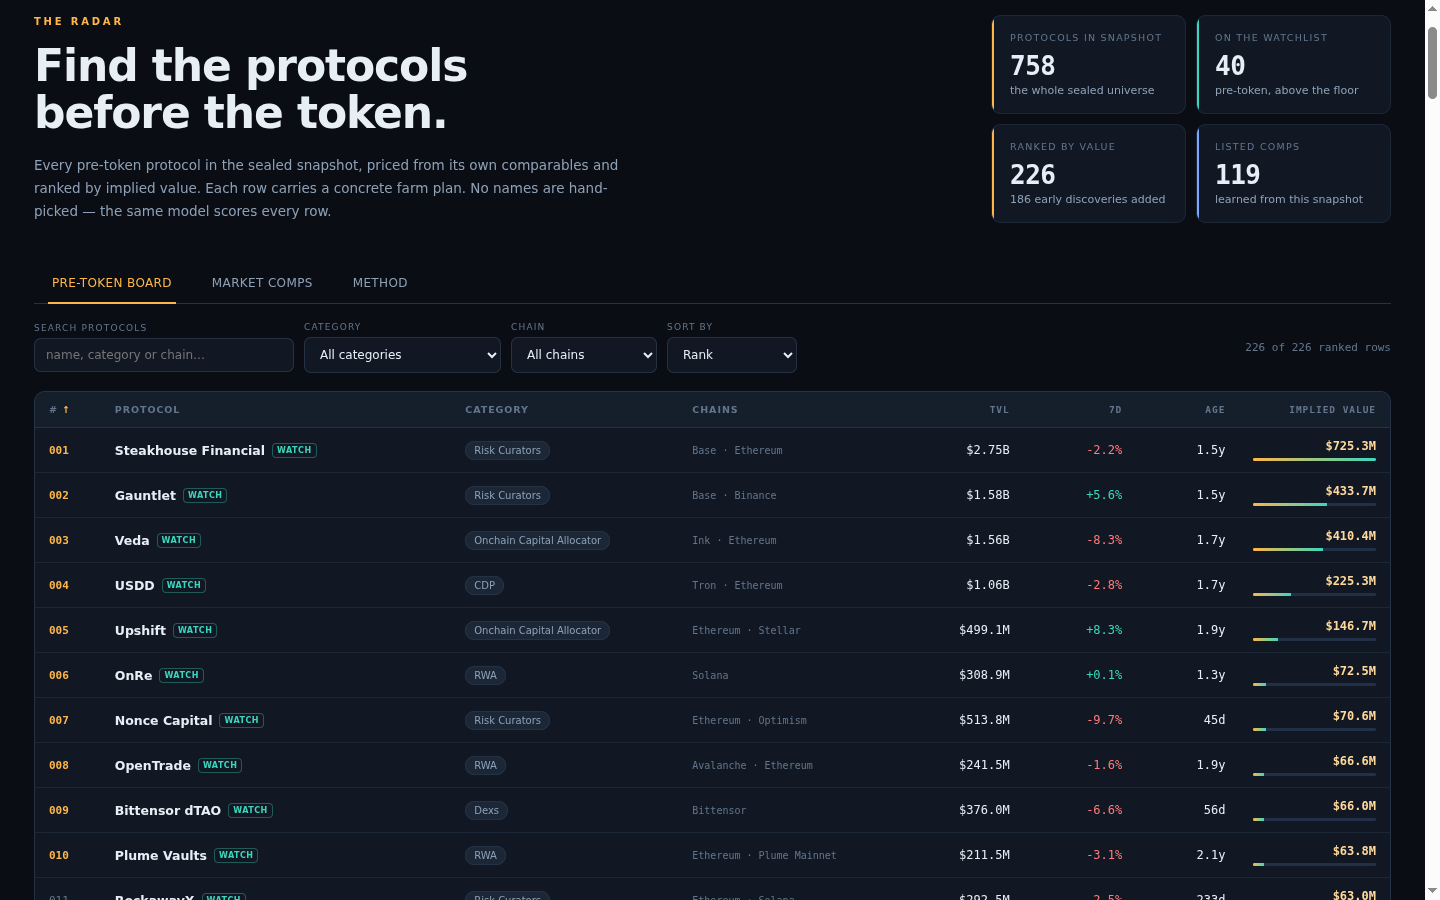
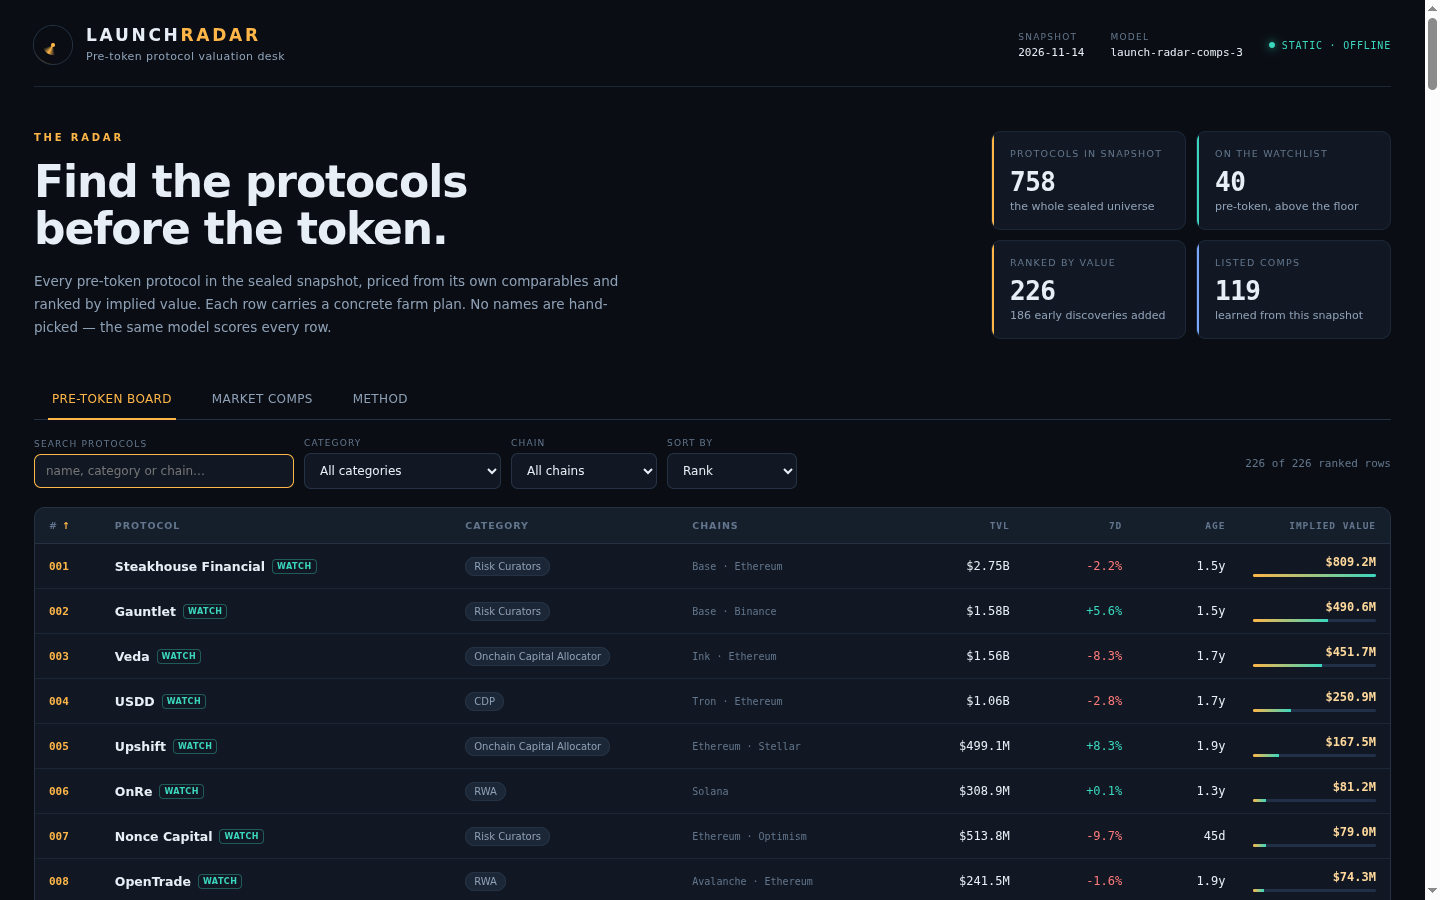
v2: peer-relative and momentum-age signals, transparent rationale in dashboard

diff --git a/dashboard/app.js b/dashboard/app.js
@@ -31,7 +31,21 @@
     var cm = 1 + M.chain_weight * Math.min(Math.max((row.chains || []).length - 1, 0), 4);
     var tilt = Math.min(4, Math.max(-2, Math.log2(M.discovery_ref_usd / Math.max(row.tvl_usd, 1))));
     var dm = 1 + M.discovery_weight * tilt;
-    return Math.max(1, Math.round(row.tvl_usd * row.comp_multiple * gm * mm * cm * dm));
+    var pm = row.peer_mult == null ? 1 : row.peer_mult;
+    var sm = row.synergy_mult == null ? 1 : row.synergy_mult;
+    var cf = row.confidence == null ? 1 : row.confidence;
+    return Math.max(1, Math.round(row.tvl_usd * row.comp_multiple * gm * mm * cm * dm * pm * sm * cf));
+  }
+
+  // One-line reading of the dominant driver, derived from the same factors.
+  function rationale(r) {
+    var out = [];
+    if (r.change_7d !== null && Math.abs(r.change_7d) >= 5) out.push((r.change_7d > 0 ? 'strong ' : 'weak ') + '7-day momentum');
+    if ((r.peer_mult || 1) >= 1.06) out.push('large for its peer group');
+    if ((r.maturity_mult || 1) >= 1.12) out.push('a long tokenless track record');
+    if ((r.discovery_mult || 1) >= 1.1) out.push('early-scale discovery');
+    if ((r.comp_n || 0) > 0 && (r.comp_multiple || 0) > 0) out.push('category comps of ' + r.comp_multiple.toFixed(2) + '×');
+    return out.length ? out.slice(0, 3).join(', ') : 'at or near the snapshot median on each factor';
   }
 
   var S = { tab: 'board', q: '', cat: 'all', chain: 'all', sort: 'rank', dir: 1, sel: null };
@@ -182,7 +196,8 @@
         esc(r.category || 'uncategorised') + (r.watchlist ? ' &nbsp;·&nbsp; on the watchlist' : ' &nbsp;·&nbsp; early discovery') + '</div>' +
       '<div class="d-val"><div class="d-val-k">IMPLIED VALUE IF ITS RECORD STAYS AS IT IS</div>' +
         '<div class="d-val-v">' + money(r.implied_value_usd) + '</div>' +
-        '<div class="d-val-n">Page recomputation: ' + money(check) + ' from the same snapshot figures</div></div>' +
+        '<div class="d-val-n">Page recomputation: ' + money(check) + ' from the same snapshot figures</div>' +
+        '<div class="d-val-n" style="margin-top:8px;color:var(--amber2)">Signal: ' + esc(rationale(r)) + '</div></div>' +
       '<div class="d-grid">' +
         cell2('TVL', money(r.tvl_usd)) + cell2('7-DAY TVL', pct(r.change_7d)) +
         cell2('TIME WITHOUT TOKEN', age(r.age_days)) + cell2('COMP MULTIPLE', (r.comp_multiple || 0).toFixed(2) + '×') +
@@ -194,6 +209,9 @@
       factor('Tokenless maturity', age(r.age_days) + ' → ' + (r.maturity_mult || 1).toFixed(3) + '×') +
       factor('Chain breadth', (r.chains || []).length + ' chains → ' + (r.chain_mult || 1).toFixed(3) + '×') +
       factor('Discovery tilt', money(r.tvl_usd) + ' TVL → ' + (r.discovery_mult || 1).toFixed(3) + '×') +
+      factor('Peer-relative size', money(r.tvl_usd) + ' against category peers → ' + (r.peer_mult || 1).toFixed(3) + '×') +
+      factor('Growth × tokenless age', pct(r.change_7d) + ' × ' + age(r.age_days) + ' → ' + (r.synergy_mult || 1).toFixed(3) + '×') +
+      factor('Data confidence', (r.confidence || 1) === 1 ? '7-day change reported → 1.000×' : '7-day change unreported → ' + (r.confidence || 1).toFixed(3) + '×') +
       '<div class="d-h">Farm plan — concrete steps, cost and time</div>' +
       '<div class="d-steps">' + (r.farm_steps || []).map(function (s, i) {
         // board.json stores each step as one "… Cost: … . Time: … ." string; split it for display.
@@ -233,8 +251,10 @@
         'growth_mult = 1 + growth/100 × ' + M.growth_weight + '<br>' +
         'maturity = 1 + age_weight × (1 − 2·exp(−days_without_token / ' + M.age_scale_days + '))<br>' +
         'chain = 1 + ' + M.chain_weight + ' × (chains − 1) &nbsp; discovery = 1 + ' + M.discovery_weight + ' × log2(' + money(M.discovery_ref_usd) + ' / tvl)<br>' +
-        'implied = round(base × growth_mult × maturity × chain × discovery)</div>' +
-      '<p>Longer tokenless track records raise credibility with a saturating effect; small protocols get a bounded discovery tilt because the radar exists to find them early. Already-listed protocols are never ranked — they appear in Market comps with the market’s own price.</p>' +
+        'peer = 1 + ' + M.peer_weight + ' × log2(tvl / category-peer-median tvl)<br>' +
+        'synergy = 1 + ' + M.momentum_age_weight + ' × growth/100 × min(2, days/365) &nbsp; confidence = ' + M.missing_growth_penalty + '× if 7d is unreported<br>' +
+        'implied = round(base × growth × maturity × chain × discovery × peer × synergy × confidence)</div>' +
+      '<p>Longer tokenless track records raise credibility with a saturating effect; small protocols get a bounded discovery tilt because the radar exists to find them early. Size relative to pre-token peers and the interaction of momentum with tokenless age are further snapshot-derived signals. An unreported 7-day change takes a small confidence haircut. Already-listed protocols are never ranked — they appear in Market comps with the market’s own price.</p>' +
       '<h3>3 · Coverage and farm plans</h3>' +
       '<p>The board carries all ' + D.watchlist_size + ' watchlist protocols plus ' + D.early_size + ' early pre-token names below the floor, ranked ' +
         D.board_size + ' deep. Every row’s plan is built from its category, chains, TVL and age: a fresh wallet, one tailored on-chain action, a weekly qualifying action, a holding window, a safety check on the official rewards page, and a farm log. Each step states its cash cost and how long it takes.</p>' +

diff --git a/lib/model.ts b/lib/model.ts
@@ -46,6 +46,9 @@ export interface ModelConstants {
   chain_weight: number;       // bonus per extra chain, capped
   discovery_weight: number;   // strength of the small-protocol discovery tilt
   discovery_ref_usd: number;  // TVL at which the discovery tilt is neutral
+  peer_weight: number;        // strength of the within-category relative-size signal
+  momentum_age_weight: number;// growth x tokenless-age interaction
+  missing_growth_penalty: number; // confidence haircut when 7d change is absent
 }
 
 export const MODEL: ModelConstants = {
@@ -59,9 +62,12 @@ export const MODEL: ModelConstants = {
   chain_weight: 0.05,
   discovery_weight: 0.11,
   discovery_ref_usd: 50_000_000,
+  peer_weight: 0.06,
+  momentum_age_weight: 0.12,
+  missing_growth_penalty: 0.96,
 };
 
-export const MODEL_VERSION = 'launch-radar-comps-2';
+export const MODEL_VERSION = 'launch-radar-comps-3';
 export const EARLY_ROWS = 240;   // pre-token protocols below the watchlist floor the early radar adds
 export const LIVE_ROWS = 24;     // listed protocols in the separate "market" view
 
@@ -116,6 +122,7 @@ export function isRankable(p: SnapshotProtocol): boolean {
 export interface Comps {
   global_ratio: number;
   categories: Record<string, { ratio: number; n: number }>;
+  peers: Record<string, number>;   // median TVL of pre-token protocols in each category
   listed_count: number;
 }
 
@@ -149,7 +156,18 @@ export function buildComps(snapshot: Snapshot, model: ModelConstants = MODEL): C
       n,
     };
   }
-  return { global_ratio: global, categories, listed_count: listed.length };
+  // Peer size within a category: the median TVL of pre-token protocols in the same category. This is
+  // another figure from the snapshot, so "large for its peer group" is evidence, not a name override.
+  const peerGroups = new Map<string, number[]>();
+  for (const p of snapshot.protocols) {
+    if (!isPreToken(p) || p.category === 'CEX' || p.tvl_usd <= 0) continue;
+    const key = p.category ?? '(uncategorised)';
+    if (!peerGroups.has(key)) peerGroups.set(key, []);
+    peerGroups.get(key)!.push(p.tvl_usd);
+  }
+  const peers: Record<string, number> = {};
+  for (const [key, values] of peerGroups) peers[key] = median(values);
+  return { global_ratio: global, categories, peers, listed_count: listed.length };
 }
 
 /** The components of one protocol's implied value, exposed so the dashboard can show the working. */
@@ -164,6 +182,9 @@ export interface Valuation {
   maturity_mult: number;
   chain_mult: number;
   discovery_mult: number;
+  peer_mult: number;
+  synergy_mult: number;
+  confidence: number;
   age_days: number | null;
 }
 
@@ -194,7 +215,20 @@ export function valueProtocol(
   const tilt = clamp(Math.log2(model.discovery_ref_usd / Math.max(p.tvl_usd, 1)), -2, 4);
   const discoveryMult = 1 + model.discovery_weight * tilt;
 
-  const implied = Math.max(1, Math.round(base * growthMult * maturityMult * chainMult * discoveryMult));
+  // Size relative to pre-token peers in the same category.
+  const peerTvl = comps.peers[key];
+  const peerMult = peerTvl !== undefined
+    ? 1 + model.peer_weight * clamp(Math.log2(Math.max(p.tvl_usd, 1) / peerTvl), -2, 2)
+    : 1;
+  // Momentum matters more on a long tokenless record: the two snapshot signals reinforce each other.
+  const synergyMult = 1 + model.momentum_age_weight * (growthPct / 100) * Math.min(2, ageFor / 365);
+  // An unreported 7-day change is weaker evidence; a small haircut keeps it from outranking a
+  // comparable protocol whose momentum is actually known.
+  const confidence = p.change_7d === null ? model.missing_growth_penalty : 1;
+
+  const implied = Math.max(1, Math.round(
+    base * growthMult * maturityMult * chainMult * discoveryMult * peerMult * synergyMult * confidence,
+  ));
   return {
     implied_usd: implied,
     comp_multiple: comp_mult,
@@ -210,6 +244,9 @@ export function valueProtocol(
     maturity_mult: maturityMult,
     chain_mult: chainMult,
     discovery_mult: discoveryMult,
+    peer_mult: peerMult,
+    synergy_mult: synergyMult,
+    confidence,
     age_days: age,
   };
 }
@@ -240,6 +277,9 @@ export interface BoardRow {
     maturity_mult: number;
     chain_mult: number;
     discovery_mult: number;
+    peer_mult: number;
+    synergy_mult: number;
+    confidence: number;
     age_days: number | null;
   };
   farm_steps: string[];
@@ -275,6 +315,9 @@ export interface RadarRow {
   maturity_mult: number;
   chain_mult: number;
   discovery_mult: number;
+  peer_mult: number;
+  synergy_mult: number;
+  confidence: number;
   watchlist: boolean;
   farm_steps: string[];
 }
@@ -355,6 +398,9 @@ export function buildBoard(snapshot: Snapshot, model: ModelConstants = MODEL): B
       maturity_mult: round5(s.v.maturity_mult),
       chain_mult: round5(s.v.chain_mult),
       discovery_mult: round5(s.v.discovery_mult),
+      peer_mult: round5(s.v.peer_mult),
+      synergy_mult: round5(s.v.synergy_mult),
+      confidence: s.v.confidence,
       age_days: s.v.age_days,
     },
     farm_steps: farmSteps(s.p, s.v.age_days).map(stepText),
@@ -489,6 +535,9 @@ function radarRow(row: BoardRow, watchlist: Set<string>): RadarRow {
     maturity_mult: row.model.maturity_mult,
     chain_mult: row.model.chain_mult,
     discovery_mult: row.model.discovery_mult,
+    peer_mult: row.model.peer_mult,
+    synergy_mult: row.model.synergy_mult,
+    confidence: row.model.confidence,
     watchlist: watchlist.has(row.slug),
     farm_steps: row.farm_steps,
   };
